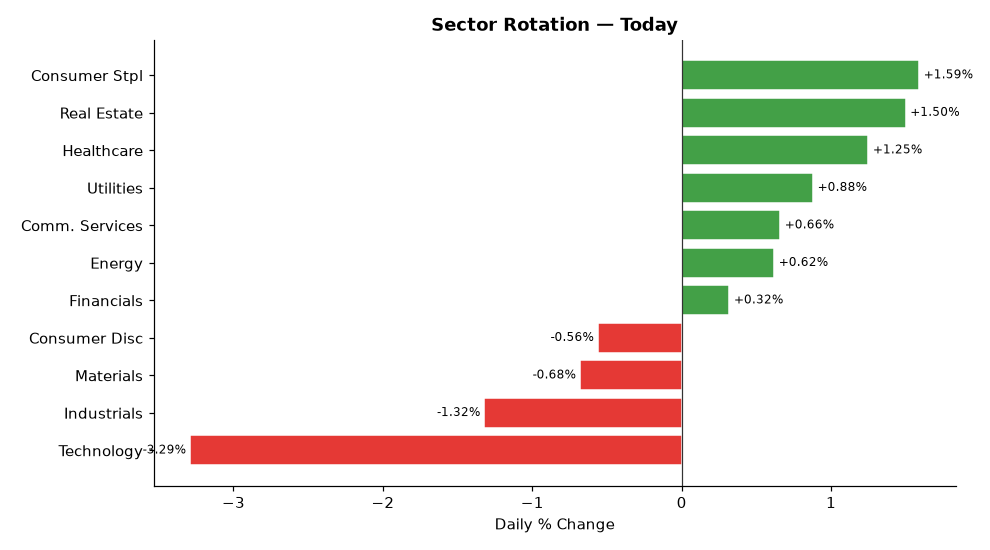
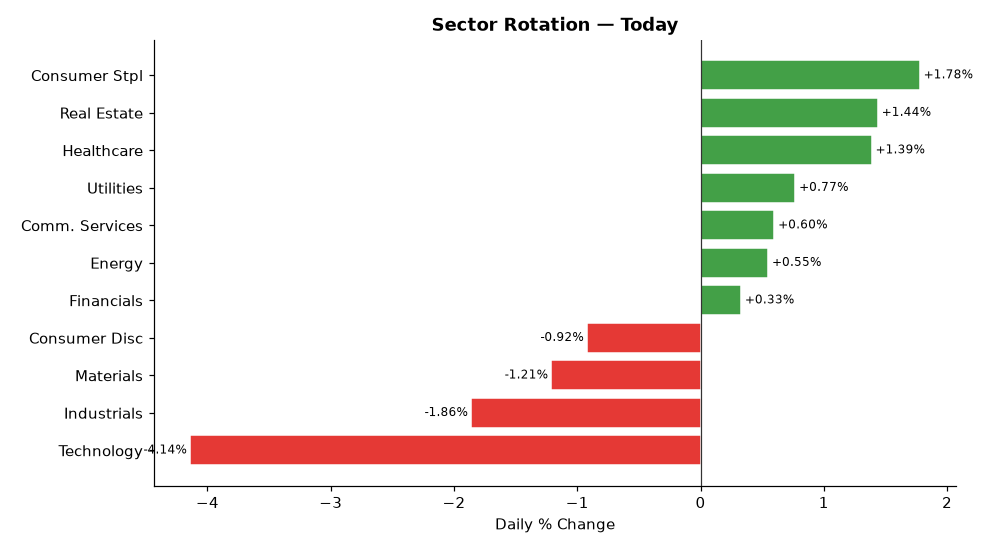
deploy: b7fadf5b06deb90e7ebb92f278722414bdd9750d

diff --git a/index.html b/index.html
@@ -4,7 +4,7 @@
   <meta charset="UTF-8">
   <meta name="viewport" content="width=device-width,initial-scale=1">
   <meta http-equiv="Cache-Control" content="no-cache,no-store,must-revalidate">
-  <title>Stock Breakout Screener — 2026-06-23 17:00</title>
+  <title>Stock Breakout Screener — 2026-06-23 19:11</title>
   <style>
     *{box-sizing:border-box;margin:0;padding:0}
     body{font-family:'Segoe UI',Arial,sans-serif;background:#f0f2f5;
@@ -34,7 +34,7 @@
 
 <div class="hdr">
   <h1>📈 Stock Breakout Screener</h1>
-  <p>Updated: 2026-06-23 17:00 UTC &nbsp;·&nbsp; Phase: Regular Market Hours &nbsp;·&nbsp;
+  <p>Updated: 2026-06-23 19:11 UTC &nbsp;·&nbsp; Phase: Regular Market Hours &nbsp;·&nbsp;
      129 stocks screened &nbsp;·&nbsp; Top 5 by conviction score</p>
 </div>
 
@@ -69,7 +69,7 @@
             </span>
           </div>
           <ul style="margin:0;padding-left:18px;font-size:13px;
-                     color:#333;line-height:1.8"><li style="margin:5px 0"><span style="background:#ffebee;color:#b71c1c;padding:2px 7px;border-radius:4px;font-size:11px;">❌</span> Volume: <b>0.2× average</b> — Above-average activity</li><li style="margin:5px 0"><span style="background:#ffebee;color:#b71c1c;padding:2px 7px;border-radius:4px;font-size:11px;">❌</span> Candle: close <b>$150.63</b> vs open <b>$149.66</b> (+0.6%) — regular market close</li><li style="margin:5px 0"><span style="background:#e8f5e9;color:#2e7d32;padding:2px 7px;border-radius:4px;font-size:11px;">✅</span> 200-Day MA: price <b>$150.63</b> vs MA <b>$147.41</b> — <b>✅ Above</b> long-term trend</li><li style="margin:5px 0"><span style="background:#e8f5e9;color:#2e7d32;padding:2px 7px;border-radius:4px;font-size:11px;">✅</span> Inst. ownership: <b>71.9%</b> · MFI: <b>65.0</b> · Market cap: <b>$350.8B</b></li></ul>
+                     color:#333;line-height:1.8"><li style="margin:5px 0"><span style="background:#ffebee;color:#b71c1c;padding:2px 7px;border-radius:4px;font-size:11px;">❌</span> Volume: <b>0.4× average</b> — Above-average activity</li><li style="margin:5px 0"><span style="background:#ffebee;color:#b71c1c;padding:2px 7px;border-radius:4px;font-size:11px;">❌</span> Candle: close <b>$151.04</b> vs open <b>$149.66</b> (+0.9%) — regular market close</li><li style="margin:5px 0"><span style="background:#e8f5e9;color:#2e7d32;padding:2px 7px;border-radius:4px;font-size:11px;">✅</span> 200-Day MA: price <b>$151.04</b> vs MA <b>$147.41</b> — <b>✅ Above</b> long-term trend</li><li style="margin:5px 0"><span style="background:#e8f5e9;color:#2e7d32;padding:2px 7px;border-radius:4px;font-size:11px;">✅</span> Inst. ownership: <b>71.9%</b> · MFI: <b>65.3</b> · Market cap: <b>$351.7B</b></li></ul>
         </div>
         <div style="background:#fff;border:1px solid #ddd;border-radius:10px;
                     padding:16px 20px;margin-bottom:12px;
@@ -86,7 +86,7 @@
             </span>
           </div>
           <ul style="margin:0;padding-left:18px;font-size:13px;
-                     color:#333;line-height:1.8"><li style="margin:5px 0"><span style="background:#ffebee;color:#b71c1c;padding:2px 7px;border-radius:4px;font-size:11px;">❌</span> Volume: <b>0.2× average</b> — Above-average activity</li><li style="margin:5px 0"><span style="background:#e8f5e9;color:#2e7d32;padding:2px 7px;border-radius:4px;font-size:11px;">✅</span> Candle: close <b>$108.52</b> vs open <b>$105.09</b> (+3.3%) — regular market close</li><li style="margin:5px 0"><span style="background:#e8f5e9;color:#2e7d32;padding:2px 7px;border-radius:4px;font-size:11px;">✅</span> 200-Day MA: price <b>$108.52</b> vs MA <b>$96.94</b> — <b>✅ Above</b> long-term trend</li><li style="margin:5px 0"><span style="background:#e8f5e9;color:#2e7d32;padding:2px 7px;border-radius:4px;font-size:11px;">✅</span> Inst. ownership: <b>96.1%</b> · MFI: <b>56.2</b> · Market cap: <b>$48.2B</b></li><li style="margin:5px 0"><span style="background:#e8f5e9;color:#2e7d32;padding:2px 7px;border-radius:4px;font-size:11px;">✅</span> Last similar breakout: <b>Apr 30, 2026</b> → <b>+9.4%</b> over 10 trading days</li></ul>
+                     color:#333;line-height:1.8"><li style="margin:5px 0"><span style="background:#ffebee;color:#b71c1c;padding:2px 7px;border-radius:4px;font-size:11px;">❌</span> Volume: <b>0.3× average</b> — Above-average activity</li><li style="margin:5px 0"><span style="background:#e8f5e9;color:#2e7d32;padding:2px 7px;border-radius:4px;font-size:11px;">✅</span> Candle: close <b>$109.05</b> vs open <b>$105.09</b> (+3.8%) — regular market close</li><li style="margin:5px 0"><span style="background:#e8f5e9;color:#2e7d32;padding:2px 7px;border-radius:4px;font-size:11px;">✅</span> 200-Day MA: price <b>$109.05</b> vs MA <b>$96.94</b> — <b>✅ Above</b> long-term trend</li><li style="margin:5px 0"><span style="background:#e8f5e9;color:#2e7d32;padding:2px 7px;border-radius:4px;font-size:11px;">✅</span> Inst. ownership: <b>96.1%</b> · MFI: <b>56.6</b> · Market cap: <b>$48.4B</b></li><li style="margin:5px 0"><span style="background:#e8f5e9;color:#2e7d32;padding:2px 7px;border-radius:4px;font-size:11px;">✅</span> Last similar breakout: <b>Apr 30, 2026</b> → <b>+9.4%</b> over 10 trading days</li></ul>
         </div>
         <div style="background:#fff;border:1px solid #ddd;border-radius:10px;
                     padding:16px 20px;margin-bottom:12px;
@@ -94,24 +94,7 @@
           <div style="display:flex;align-items:center;gap:10px;
                       flex-wrap:wrap;margin-bottom:10px">
             <span style="font-size:22px">🟡</span>
-            <span style="font-size:19px;font-weight:700">3. INTC</span>
-            <span style="font-size:12px;color:#666">Technology</span>
-            <span style="margin-left:auto;background:#1a237e;color:#fff;
-                         padding:3px 12px;border-radius:12px;
-                         font-size:13px;font-weight:600">
-              10/17
-            </span>
-          </div>
-          <ul style="margin:0;padding-left:18px;font-size:13px;
-                     color:#333;line-height:1.8"><li style="margin:5px 0"><span style="background:#ffebee;color:#b71c1c;padding:2px 7px;border-radius:4px;font-size:11px;">❌</span> Volume: <b>0.6× average</b> — Above-average activity</li><li style="margin:5px 0"><span style="background:#e8f5e9;color:#2e7d32;padding:2px 7px;border-radius:4px;font-size:11px;">✅</span> Candle: close <b>$134.73</b> vs open <b>$129.73</b> (+3.9%) — regular market close</li><li style="margin:5px 0"><span style="background:#e8f5e9;color:#2e7d32;padding:2px 7px;border-radius:4px;font-size:11px;">✅</span> 200-Day MA: price <b>$134.73</b> vs MA <b>$69.55</b> — <b>✅ Above</b> long-term trend</li><li style="margin:5px 0"><span style="background:#e8f5e9;color:#2e7d32;padding:2px 7px;border-radius:4px;font-size:11px;">✅</span> Inst. ownership: <b>64.0%</b> · MFI: <b>71.3</b> · Market cap: <b>$677.0B</b></li></ul>
-        </div>
-        <div style="background:#fff;border:1px solid #ddd;border-radius:10px;
-                    padding:16px 20px;margin-bottom:12px;
-                    box-shadow:0 2px 6px rgba(0,0,0,.07)">
-          <div style="display:flex;align-items:center;gap:10px;
-                      flex-wrap:wrap;margin-bottom:10px">
-            <span style="font-size:22px">🟡</span>
-            <span style="font-size:19px;font-weight:700">4. CL</span>
+            <span style="font-size:19px;font-weight:700">3. CL</span>
             <span style="font-size:12px;color:#666">Consumer Stpl</span>
             <span style="margin-left:auto;background:#1a237e;color:#fff;
                          padding:3px 12px;border-radius:12px;
@@ -120,7 +103,7 @@
             </span>
           </div>
           <ul style="margin:0;padding-left:18px;font-size:13px;
-                     color:#333;line-height:1.8"><li style="margin:5px 0"><span style="background:#ffebee;color:#b71c1c;padding:2px 7px;border-radius:4px;font-size:11px;">❌</span> Volume: <b>0.3× average</b> — Above-average activity</li><li style="margin:5px 0"><span style="background:#ffebee;color:#b71c1c;padding:2px 7px;border-radius:4px;font-size:11px;">❌</span> Candle: close <b>$91.33</b> vs open <b>$89.84</b> (+1.7%) — regular market close</li><li style="margin:5px 0"><span style="background:#e8f5e9;color:#2e7d32;padding:2px 7px;border-radius:4px;font-size:11px;">✅</span> 200-Day MA: price <b>$91.33</b> vs MA <b>$87.33</b> — <b>✅ Above</b> long-term trend</li><li style="margin:5px 0"><span style="background:#e8f5e9;color:#2e7d32;padding:2px 7px;border-radius:4px;font-size:11px;">✅</span> Inst. ownership: <b>88.0%</b> · MFI: <b>50.8</b> · Market cap: <b>$73.1B</b></li></ul>
+                     color:#333;line-height:1.8"><li style="margin:5px 0"><span style="background:#ffebee;color:#b71c1c;padding:2px 7px;border-radius:4px;font-size:11px;">❌</span> Volume: <b>0.4× average</b> — Above-average activity</li><li style="margin:5px 0"><span style="background:#ffebee;color:#b71c1c;padding:2px 7px;border-radius:4px;font-size:11px;">❌</span> Candle: close <b>$91.46</b> vs open <b>$89.84</b> (+1.8%) — regular market close</li><li style="margin:5px 0"><span style="background:#e8f5e9;color:#2e7d32;padding:2px 7px;border-radius:4px;font-size:11px;">✅</span> 200-Day MA: price <b>$91.46</b> vs MA <b>$87.33</b> — <b>✅ Above</b> long-term trend</li><li style="margin:5px 0"><span style="background:#e8f5e9;color:#2e7d32;padding:2px 7px;border-radius:4px;font-size:11px;">✅</span> Inst. ownership: <b>88.0%</b> · MFI: <b>51.2</b> · Market cap: <b>$73.2B</b></li></ul>
         </div>
         <div style="background:#fff;border:1px solid #ddd;border-radius:10px;
                     padding:16px 20px;margin-bottom:12px;
@@ -128,16 +111,33 @@
           <div style="display:flex;align-items:center;gap:10px;
                       flex-wrap:wrap;margin-bottom:10px">
             <span style="font-size:22px">🟡</span>
-            <span style="font-size:19px;font-weight:700">5. EXPE</span>
-            <span style="font-size:12px;color:#666">Consumer Disc</span>
+            <span style="font-size:19px;font-weight:700">4. JNJ</span>
+            <span style="font-size:12px;color:#666">Healthcare</span>
             <span style="margin-left:auto;background:#1a237e;color:#fff;
                          padding:3px 12px;border-radius:12px;
                          font-size:13px;font-weight:600">
-              10/17
+              9/17
             </span>
           </div>
           <ul style="margin:0;padding-left:18px;font-size:13px;
-                     color:#333;line-height:1.8"><li style="margin:5px 0"><span style="background:#ffebee;color:#b71c1c;padding:2px 7px;border-radius:4px;font-size:11px;">❌</span> Volume: <b>0.2× average</b> — Above-average activity</li><li style="margin:5px 0"><span style="background:#e8f5e9;color:#2e7d32;padding:2px 7px;border-radius:4px;font-size:11px;">✅</span> Candle: close <b>$245.39</b> vs open <b>$237.98</b> (+3.1%) — regular market close</li><li style="margin:5px 0"><span style="background:#e8f5e9;color:#2e7d32;padding:2px 7px;border-radius:4px;font-size:11px;">✅</span> 200-Day MA: price <b>$245.39</b> vs MA <b>$242.32</b> — <b>✅ Above</b> long-term trend</li><li style="margin:5px 0"><span style="background:#e8f5e9;color:#2e7d32;padding:2px 7px;border-radius:4px;font-size:11px;">✅</span> Inst. ownership: <b>104.3%</b> · MFI: <b>68.0</b> · Market cap: <b>$29.4B</b></li></ul>
+                     color:#333;line-height:1.8"><li style="margin:5px 0"><span style="background:#ffebee;color:#b71c1c;padding:2px 7px;border-radius:4px;font-size:11px;">❌</span> Volume: <b>0.7× average</b> — Above-average activity</li><li style="margin:5px 0"><span style="background:#ffebee;color:#b71c1c;padding:2px 7px;border-radius:4px;font-size:11px;">❌</span> Candle: close <b>$238.49</b> vs open <b>$235.64</b> (+1.2%) — regular market close</li><li style="margin:5px 0"><span style="background:#e8f5e9;color:#2e7d32;padding:2px 7px;border-radius:4px;font-size:11px;">✅</span> 200-Day MA: price <b>$238.49</b> vs MA <b>$229.53</b> — <b>✅ Above</b> long-term trend</li><li style="margin:5px 0"><span style="background:#e8f5e9;color:#2e7d32;padding:2px 7px;border-radius:4px;font-size:11px;">✅</span> Inst. ownership: <b>76.9%</b> · MFI: <b>63.4</b> · Market cap: <b>$574.2B</b></li></ul>
+        </div>
+        <div style="background:#fff;border:1px solid #ddd;border-radius:10px;
+                    padding:16px 20px;margin-bottom:12px;
+                    box-shadow:0 2px 6px rgba(0,0,0,.07)">
+          <div style="display:flex;align-items:center;gap:10px;
+                      flex-wrap:wrap;margin-bottom:10px">
+            <span style="font-size:22px">🟡</span>
+            <span style="font-size:19px;font-weight:700">5. UNH</span>
+            <span style="font-size:12px;color:#666">Healthcare</span>
+            <span style="margin-left:auto;background:#1a237e;color:#fff;
+                         padding:3px 12px;border-radius:12px;
+                         font-size:13px;font-weight:600">
+              9/17
+            </span>
+          </div>
+          <ul style="margin:0;padding-left:18px;font-size:13px;
+                     color:#333;line-height:1.8"><li style="margin:5px 0"><span style="background:#ffebee;color:#b71c1c;padding:2px 7px;border-radius:4px;font-size:11px;">❌</span> Volume: <b>0.5× average</b> — Above-average activity</li><li style="margin:5px 0"><span style="background:#ffebee;color:#b71c1c;padding:2px 7px;border-radius:4px;font-size:11px;">❌</span> Candle: close <b>$408.20</b> vs open <b>$409.52</b> (-0.3%) — regular market close</li><li style="margin:5px 0"><span style="background:#e8f5e9;color:#2e7d32;padding:2px 7px;border-radius:4px;font-size:11px;">✅</span> 200-Day MA: price <b>$408.20</b> vs MA <b>$328.21</b> — <b>✅ Above</b> long-term trend</li><li style="margin:5px 0"><span style="background:#e8f5e9;color:#2e7d32;padding:2px 7px;border-radius:4px;font-size:11px;">✅</span> Inst. ownership: <b>85.9%</b> · MFI: <b>71.7</b> · Market cap: <b>$370.7B</b></li></ul>
         </div>
 
 
@@ -169,17 +169,17 @@
         <tr>
           <td style="font-weight:700;text-align:left;padding-left:10px">
             🟡 PG</td>
-          <td style="background:#ffcdd2">0.2×</td>
-          <td style="background:#ffcdd2">+0.6%</td>
+          <td style="background:#ffcdd2">0.4×</td>
+          <td style="background:#ffcdd2">+0.9%</td>
           <td style="background:#c8e6c9">
             ▲ Above</td>
           <td style="background:#c8e6c9">
             71.9%</td>
           <td style="background:#c8e6c9">
-            65.0</td>
+            65.3</td>
           <td style="background:#c8e6c9">Consumer Stpl</td>
           <td style="background:#c8e6c9">
-            89.4%</td>
+            84.8%</td>
           <td style="background:#ffcdd2">
             N/A</td>
           <td style="font-weight:800;font-size:15px">11/17</td>
@@ -187,74 +187,74 @@
         <tr>
           <td style="font-weight:700;text-align:left;padding-left:10px">
             🟡 EBAY</td>
-          <td style="background:#ffcdd2">0.2×</td>
-          <td style="background:#c8e6c9">+3.3%</td>
+          <td style="background:#ffcdd2">0.3×</td>
+          <td style="background:#c8e6c9">+3.8%</td>
           <td style="background:#c8e6c9">
             ▲ Above</td>
           <td style="background:#c8e6c9">
             96.1%</td>
           <td style="background:#fff9c4">
-            56.2</td>
+            56.6</td>
           <td style="background:#ffcdd2">Consumer Disc</td>
           <td style="background:#c8e6c9">
-            82.3%</td>
+            72.8%</td>
           <td style="background:#c8e6c9">
             +9.4%</td>
           <td style="font-weight:800;font-size:15px">11/17</td>
         </tr>
         <tr>
           <td style="font-weight:700;text-align:left;padding-left:10px">
-            🟡 INTC</td>
-          <td style="background:#ffcdd2">0.6×</td>
-          <td style="background:#c8e6c9">+3.9%</td>
-          <td style="background:#c8e6c9">
-            ▲ Above</td>
-          <td style="background:#c8e6c9">
-            64.0%</td>
-          <td style="background:#c8e6c9">
-            71.3</td>
-          <td style="background:#ffcdd2">Technology</td>
-          <td style="background:#c8e6c9">
-            182.8%</td>
-          <td style="background:#ffcdd2">
-            N/A</td>
-          <td style="font-weight:800;font-size:15px">10/17</td>
-        </tr>
-        <tr>
-          <td style="font-weight:700;text-align:left;padding-left:10px">
             🟡 CL</td>
-          <td style="background:#ffcdd2">0.3×</td>
-          <td style="background:#ffcdd2">+1.7%</td>
+          <td style="background:#ffcdd2">0.4×</td>
+          <td style="background:#ffcdd2">+1.8%</td>
           <td style="background:#c8e6c9">
             ▲ Above</td>
           <td style="background:#c8e6c9">
             88.0%</td>
           <td style="background:#fff9c4">
-            50.8</td>
+            51.2</td>
           <td style="background:#c8e6c9">Consumer Stpl</td>
           <td style="background:#c8e6c9">
-            59.9%</td>
+            64.2%</td>
           <td style="background:#ffcdd2">
             N/A</td>
           <td style="font-weight:800;font-size:15px">10/17</td>
         </tr>
         <tr>
           <td style="font-weight:700;text-align:left;padding-left:10px">
-            🟡 EXPE</td>
-          <td style="background:#ffcdd2">0.2×</td>
-          <td style="background:#c8e6c9">+3.1%</td>
+            🟡 JNJ</td>
+          <td style="background:#ffcdd2">0.7×</td>
+          <td style="background:#ffcdd2">+1.2%</td>
           <td style="background:#c8e6c9">
             ▲ Above</td>
           <td style="background:#c8e6c9">
-            104.3%</td>
+            76.9%</td>
           <td style="background:#c8e6c9">
-            68.0</td>
-          <td style="background:#ffcdd2">Consumer Disc</td>
+            63.4</td>
+          <td style="background:#fff9c4">Healthcare</td>
           <td style="background:#c8e6c9">
-            30.2%</td>
+            100.9%</td>
           <td style="background:#ffcdd2">
             N/A</td>
-          <td style="font-weight:800;font-size:15px">10/17</td>
+          <td style="font-weight:800;font-size:15px">9/17</td>
+        </tr>
+        <tr>
+          <td style="font-weight:700;text-align:left;padding-left:10px">
+            🟡 UNH</td>
+          <td style="background:#ffcdd2">0.5×</td>
+          <td style="background:#ffcdd2">-0.3%</td>
+          <td style="background:#c8e6c9">
+            ▲ Above</td>
+          <td style="background:#c8e6c9">
+            85.9%</td>
+          <td style="background:#c8e6c9">
+            71.7</td>
+          <td style="background:#fff9c4">Healthcare</td>
+          <td style="background:#c8e6c9">
+            126.2%</td>
+          <td style="background:#ffcdd2">
+            N/A</td>
+          <td style="font-weight:800;font-size:15px">9/17</td>
         </tr>
 </table>
 </div>
@@ -278,57 +278,57 @@
         <tr>
           <td style="text-align:left;padding-left:10px;font-weight:600">
             #1 Consumer Stpl</td>
-          <td style="background:#e8f5e9;color:#2e7d32;font-weight:700">+1.59%</td>
+          <td style="background:#e8f5e9;color:#2e7d32;font-weight:700">+1.78%</td>
         </tr>
         <tr>
           <td style="text-align:left;padding-left:10px;font-weight:600">
             #2 Real Estate</td>
-          <td style="background:#e8f5e9;color:#2e7d32;font-weight:700">+1.50%</td>
+          <td style="background:#e8f5e9;color:#2e7d32;font-weight:700">+1.44%</td>
         </tr>
         <tr>
           <td style="text-align:left;padding-left:10px;font-weight:600">
             #3 Healthcare</td>
-          <td style="background:#e8f5e9;color:#2e7d32;font-weight:700">+1.25%</td>
+          <td style="background:#e8f5e9;color:#2e7d32;font-weight:700">+1.39%</td>
         </tr>
         <tr>
           <td style="text-align:left;padding-left:10px;font-weight:600">
             #4 Utilities</td>
-          <td style="background:#e8f5e9;color:#2e7d32;font-weight:700">+0.88%</td>
+          <td style="background:#e8f5e9;color:#2e7d32;font-weight:700">+0.77%</td>
         </tr>
         <tr>
           <td style="text-align:left;padding-left:10px;font-weight:600">
             #5 Comm. Services</td>
-          <td style="background:#e8f5e9;color:#2e7d32;font-weight:700">+0.66%</td>
+          <td style="background:#e8f5e9;color:#2e7d32;font-weight:700">+0.60%</td>
         </tr>
         <tr>
           <td style="text-align:left;padding-left:10px;font-weight:600">
             #6 Energy</td>
-          <td style="background:#e8f5e9;color:#2e7d32;font-weight:700">+0.62%</td>
+          <td style="background:#e8f5e9;color:#2e7d32;font-weight:700">+0.55%</td>
         </tr>
         <tr>
           <td style="text-align:left;padding-left:10px;font-weight:600">
             #7 Financials</td>
-          <td style="background:#e8f5e9;color:#2e7d32;font-weight:700">+0.32%</td>
+          <td style="background:#e8f5e9;color:#2e7d32;font-weight:700">+0.33%</td>
         </tr>
         <tr>
           <td style="text-align:left;padding-left:10px;font-weight:600">
             #8 Consumer Disc</td>
-          <td style="background:#ffebee;color:#c62828;font-weight:700">-0.56%</td>
+          <td style="background:#ffebee;color:#c62828;font-weight:700">-0.92%</td>
         </tr>
         <tr>
           <td style="text-align:left;padding-left:10px;font-weight:600">
             #9 Materials</td>
-          <td style="background:#ffebee;color:#c62828;font-weight:700">-0.68%</td>
+          <td style="background:#ffebee;color:#c62828;font-weight:700">-1.21%</td>
         </tr>
         <tr>
           <td style="text-align:left;padding-left:10px;font-weight:600">
             #10 Industrials</td>
-          <td style="background:#ffebee;color:#c62828;font-weight:700">-1.32%</td>
+          <td style="background:#ffebee;color:#c62828;font-weight:700">-1.86%</td>
         </tr>
         <tr>
           <td style="text-align:left;padding-left:10px;font-weight:600">
             #11 Technology</td>
-          <td style="background:#ffebee;color:#c62828;font-weight:700">-3.29%</td>
+          <td style="background:#ffebee;color:#c62828;font-weight:700">-4.14%</td>
         </tr>
     </table>
   </div>
@@ -367,7 +367,7 @@
         <li><b>Scoring weights:</b>
             Inst.Own(3) · Sector(3) · Volume(2) · Breakout(2) ·
             MA200(2) · MFI(2) · History(2) · IV(1) = 17pts max</li>
-        <li><b>Run time:</b> 2026-06-23 17:00 UTC — Market phase: Regular Market Hours</li>
+        <li><b>Run time:</b> 2026-06-23 19:11 UTC — Market phase: Regular Market Hours</li>
       </ul>
     </div>
 
